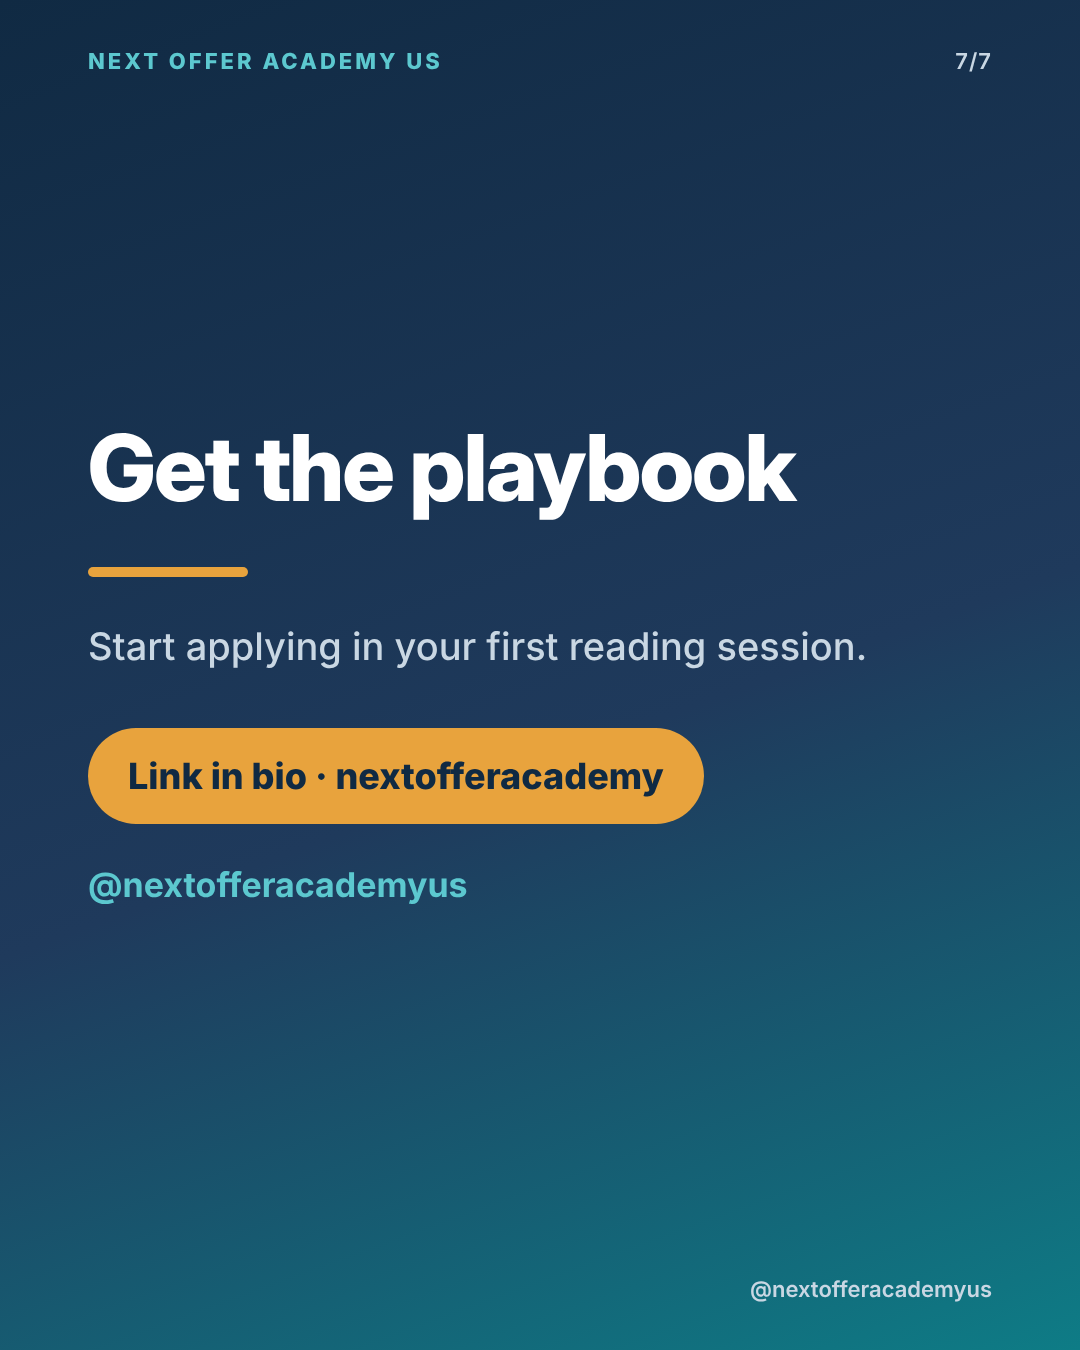
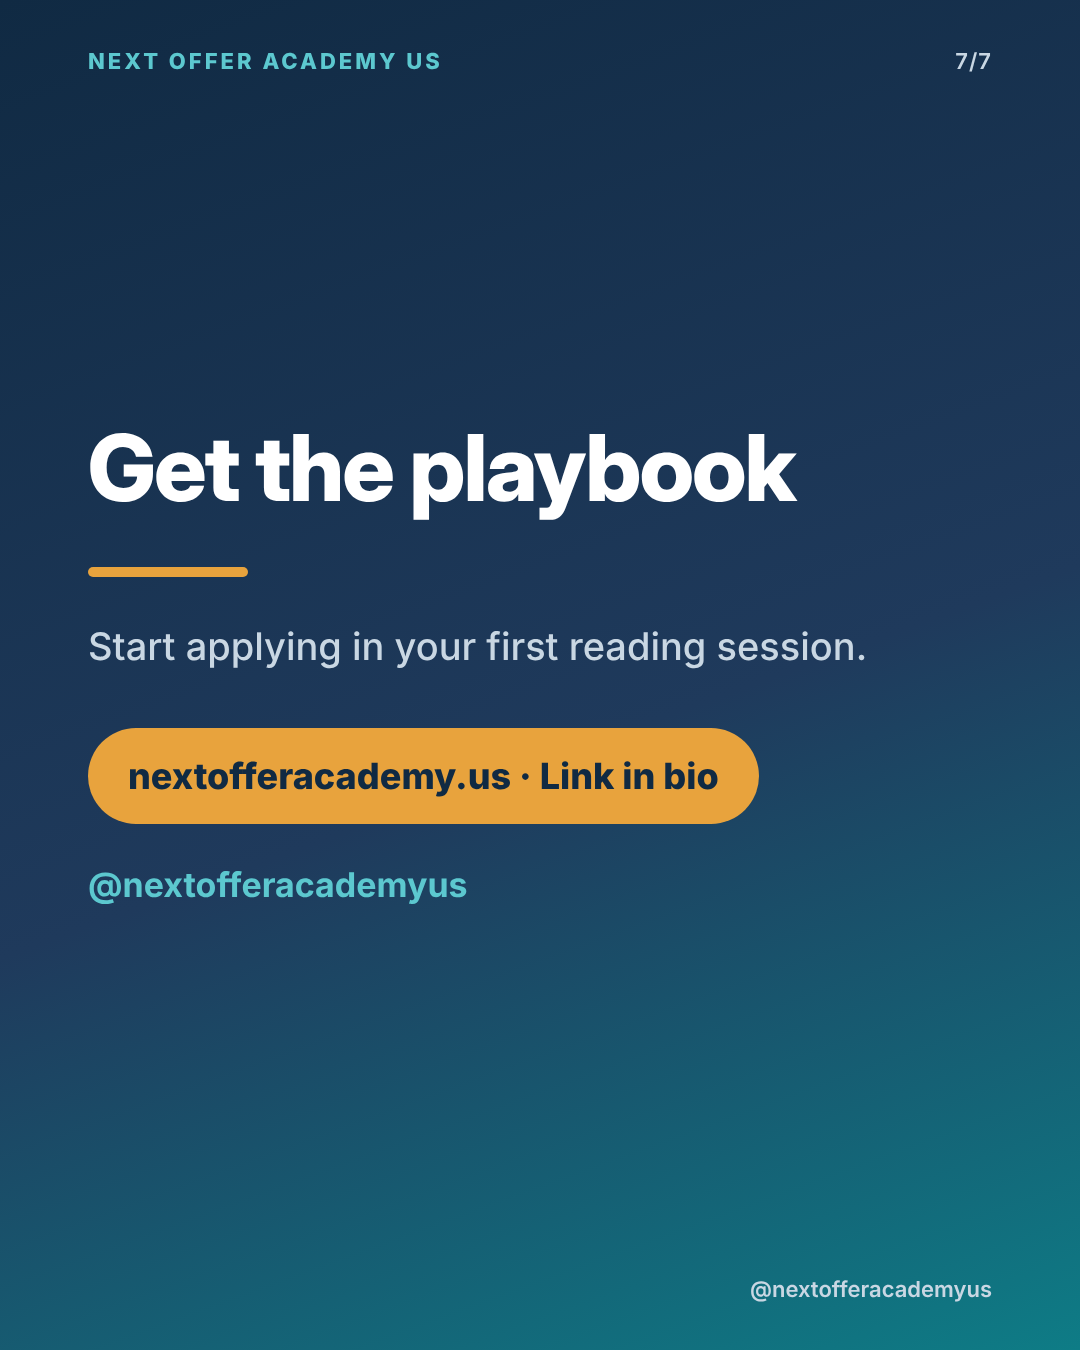
Set website to nextofferacademy.us; record verified Buffer TikTok channel
Claude-Session: https://claude.ai/code/session_01W9Qn9Bn4tWg1vENPKPSP4n

Changed region(s): [[0.1222, 0.5289, 0.7028, 0.6222]]

diff --git a/social/scripts/week1_content.py b/social/scripts/week1_content.py
@@ -356,12 +356,12 @@ post(id="2026-11-02-ig", date="2026-11-02", time_et="12:00", channel="instagram"
          {"type": "stat", "big": "21", "title": "Copy-paste AI prompts", "body": "Resume tailoring, LinkedIn, proposals, pricing and an AI interview simulator."},
          {"type": "stat", "big": "7 + 30", "title": "Day action plans", "body": "An urgent-income track and a stable-job track, with printable trackers."},
          {"type": "tip", "n": "✓", "title": "What it won't do", "body": "Promise you a job or an income. It gives you verified places to apply and a plan to follow."},
-         {"type": "cta", "title": "Get the playbook", "body": "Start applying in your first reading session.", "action": f"{LINK_CTA} · nextofferacademy"},
+         {"type": "cta", "title": "Get the playbook", "body": "Start applying in your first reading session.", "action": "nextofferacademy.us · Link in bio"},
      ],
      caption=("We built the guide we wish existed for US job seekers chasing legit remote work. 📘\n\n"
               "Inside the US Remote Job Playbook:\n• 71 opportunities with direct links and status labels\n• 51 documented worker outcomes\n"
               "• 21 copy-paste AI career prompts\n• 7-day and 30-day action plans\n\nNo promises of jobs or income. Just verified places to apply and a plan.\n\n"
-              "👉 Link in bio"),
+              "👉 nextofferacademy.us (link in bio)"),
      hashtags=["#remotejobs", "#jobsearch", "#careerguide", "#layoffs", "#newgrad"],
      sources=["us/OPPORTUNITY_DIRECTORY.csv", "us/WORKER_SUCCESS_RESEARCH.csv", "us/AI_CAREER_PROMPTS.md"])
 

diff --git a/social/scripts/pipeline.py b/social/scripts/pipeline.py
@@ -41,7 +41,7 @@ SCHEMA = {"type": "object", "additionalProperties": False, "required": ["instagr
     "threads": {"type": "array", "items": {"type": "object", "additionalProperties": False, "required": ["topic", "text", "sources"],
                                            "properties": {"topic": S, "text": S, "sources": {"type": "array", "items": S}}}}}}
 
-SYSTEM = """You write social content for Next Offer Academy US (@nextofferacademyus): a brand that helps US job seekers, new grads and laid-off professionals find LEGITIMATE remote work.
+SYSTEM = """You write social content for Next Offer Academy US (@nextofferacademyus, website nextofferacademy.us): a brand that helps US job seekers, new grads and laid-off professionals find LEGITIMATE remote work.
 
 Voice: natural American English, warm, direct, practical. Sound like a knowledgeable friend, not a brand bot. No hype, no emojis walls, no "game-changer", no "unlock", no "in today's fast-paced world". Short sentences. Concrete details.
 
